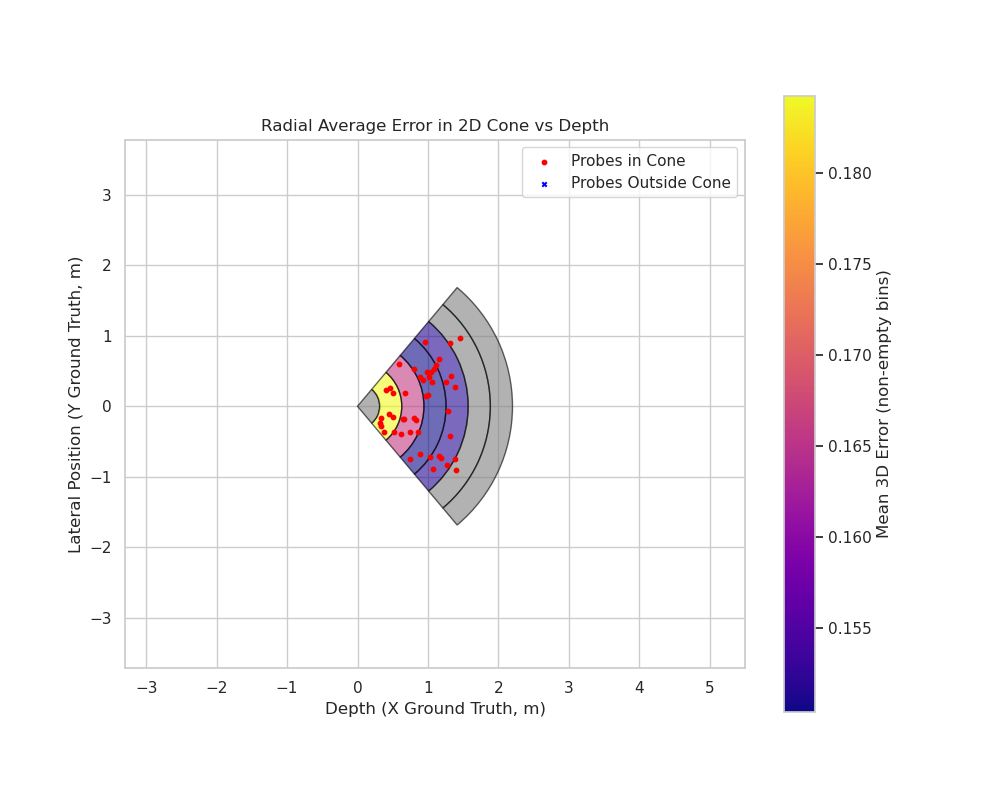
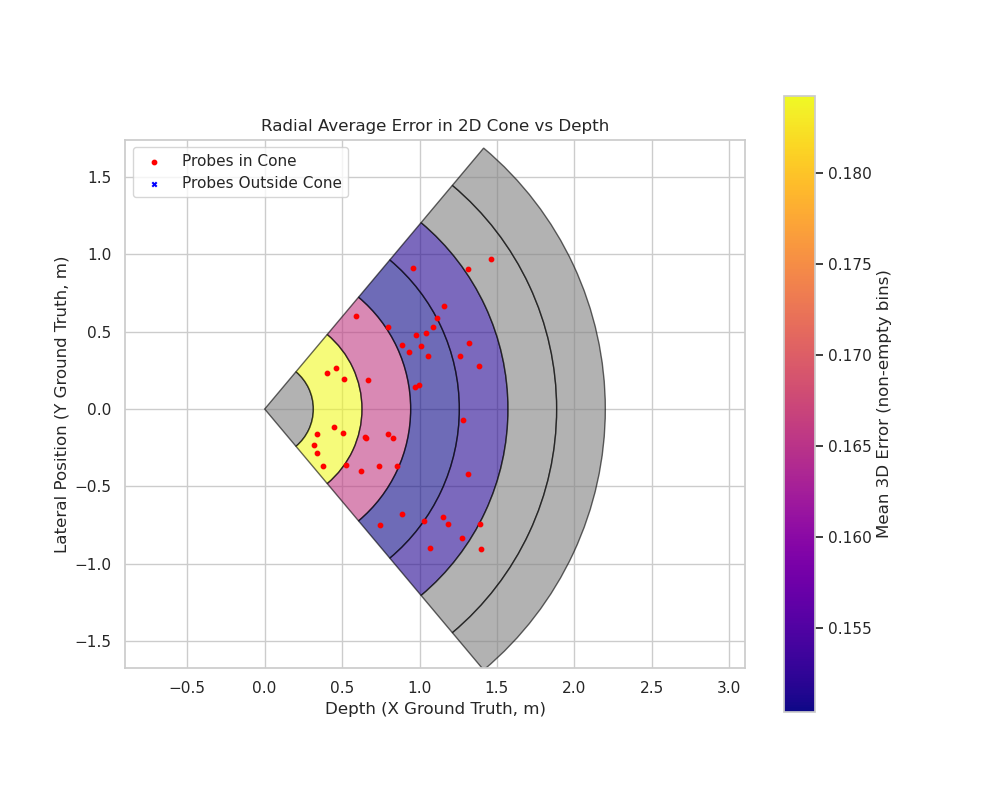
Shabang

diff --git a/src/probe_detection/test/VisulizeResults.py b/src/probe_detection/test/VisulizeResults.py
@@ -104,8 +104,8 @@ try:
     x_max = max(vital_data['x_gt'].max(), max_depth)
     y_min = vital_data['y_gt'].min()
     y_max = vital_data['y_gt'].max()
-    x_pad = (x_max - x_min) * 1.5
-    y_pad = (y_max - y_min) * 1.5
+    x_pad = (x_max - x_min) * 0.41
+    y_pad = (y_max - y_min) * 0.41
     ax.set_xlim(x_min - x_pad, x_max + x_pad)
     ax.set_ylim(y_min - y_pad, y_max + y_pad)
     ax.set_aspect('equal')

diff --git a/src/simulation/scripts/leorover_xt32_base.py b/src/simulation/scripts/leorover_xt32_base.py
@@ -1,3 +1,4 @@
+#!/usr/bin/env python3
 from isaacsim import SimulationApp
 
 # This sample enables a livestream server to connect to when running headless

diff --git a/src/simulation/scripts/leorover_xt32_lifted.py b/src/simulation/scripts/leorover_xt32_lifted.py
@@ -1,3 +1,4 @@
+#!/usr/bin/env python3
 from isaacsim import SimulationApp
 
 # This sample enables a livestream server to connect to when running headless

diff --git a/src/simulation/scripts/leorover_os1_lifted.py b/src/simulation/scripts/leorover_os1_lifted.py
@@ -1,3 +1,4 @@
+#!/usr/bin/env python3
 from isaacsim import SimulationApp
 import carb
 import numpy as np

diff --git a/src/simulation/scripts/leorover_os1_lifted_30fps.py b/src/simulation/scripts/leorover_os1_lifted_30fps.py
@@ -1,3 +1,4 @@
+#!/usr/bin/env python3
 from isaacsim import SimulationApp
 import carb
 import numpy as np
